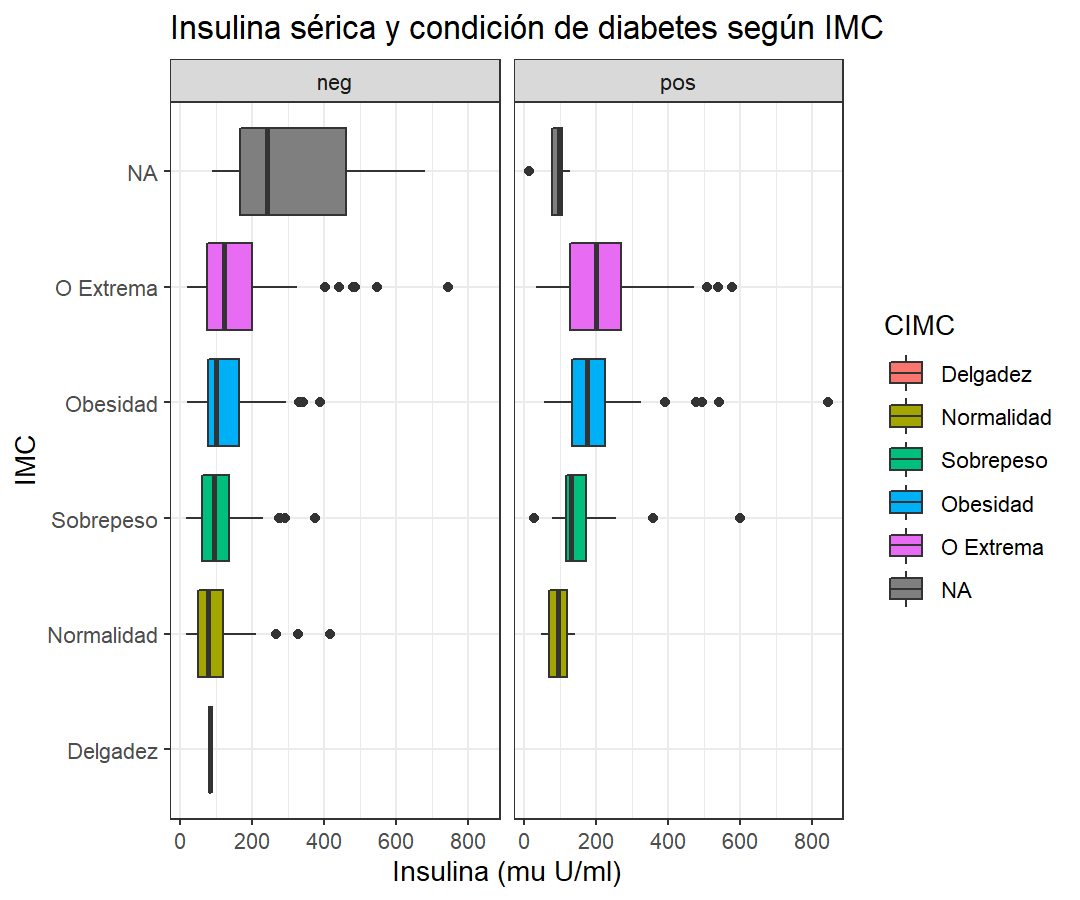
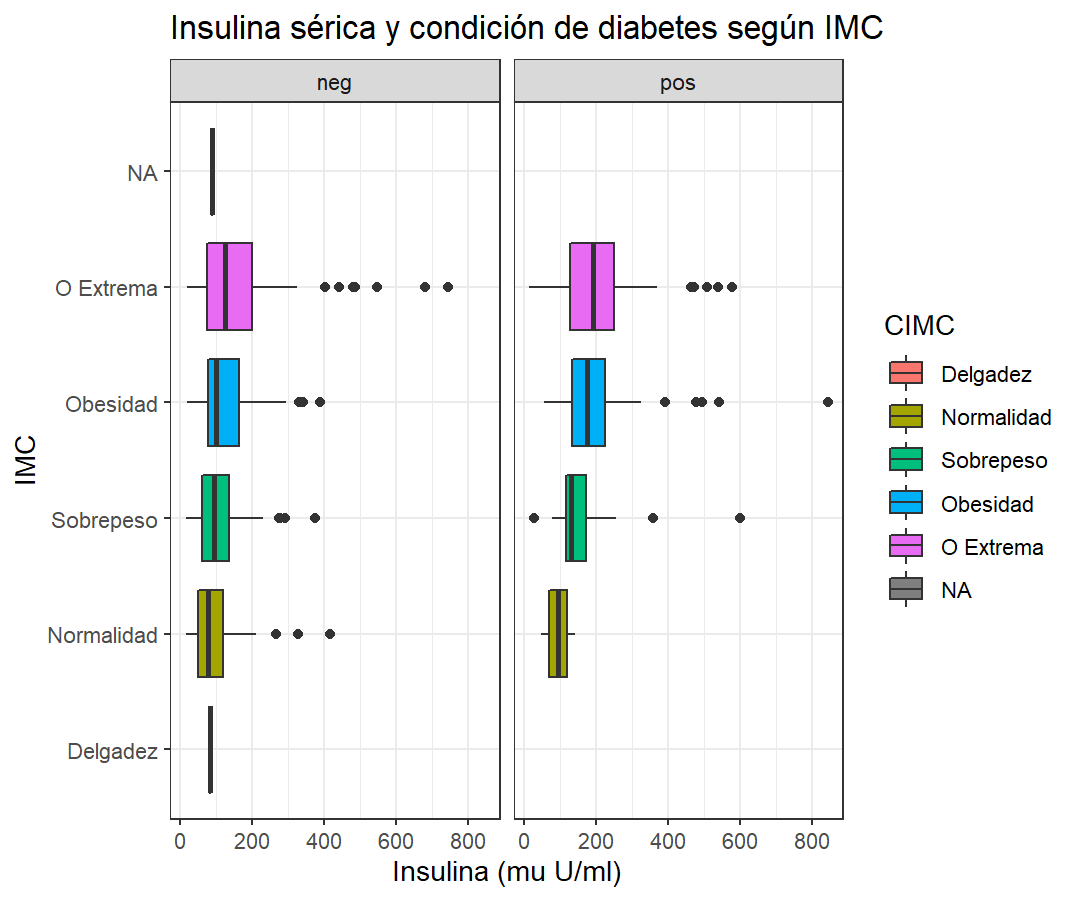
v3.0.42

diff --git a/BioStat1/_site/D_graph.html b/BioStat1/_site/D_graph.html
@@ -1260,7 +1260,7 @@ div.tocify {
 <p><img src="D_graph_files/figure-html/unnamed-chunk-39-2.png" width="540" style="display: block; margin: auto;" /></p>
 <div class="sourceCode" id="cb23"><pre class="sourceCode r"><code class="sourceCode r"><span id="cb23-1"><a href="#cb23-1"></a>datos <span class="op">%&gt;%</span><span class="st"> </span><span class="kw">filter</span>(age<span class="op">&gt;=</span><span class="dv">28</span> <span class="op">&amp;</span><span class="st"> </span>age<span class="op">&lt;=</span><span class="dv">64</span>) <span class="op">%&gt;%</span></span>
 <span id="cb23-2"><a href="#cb23-2"></a><span class="st">    </span><span class="kw">mutate</span>(<span class="dt">presion=</span><span class="kw">ifelse</span>(pressure<span class="op">&gt;</span><span class="dv">80</span>,<span class="st">&quot;Normal&quot;</span>,<span class="st">&quot;Alta&quot;</span>)) <span class="op">%&gt;%</span></span>
-<span id="cb23-3"><a href="#cb23-3"></a><span class="st">    </span><span class="kw">mutate</span>(<span class="dt">CIMC=</span><span class="kw">cut</span>(mass,<span class="dt">breaks =</span> <span class="kw">c</span>(<span class="dv">15</span>,<span class="fl">18.5</span>,<span class="dv">25</span>,<span class="dv">30</span>,<span class="dv">35</span>,<span class="dv">50</span>),</span>
+<span id="cb23-3"><a href="#cb23-3"></a><span class="st">    </span><span class="kw">mutate</span>(<span class="dt">CIMC=</span><span class="kw">cut</span>(mass,<span class="dt">breaks =</span> <span class="kw">c</span>(<span class="dv">10</span>,<span class="fl">18.5</span>,<span class="dv">25</span>,<span class="dv">30</span>,<span class="dv">35</span>,<span class="ot">Inf</span>),</span>
 <span id="cb23-4"><a href="#cb23-4"></a>                    <span class="dt">labels =</span> <span class="kw">c</span>(<span class="st">&quot;Delgadez&quot;</span>,<span class="st">&quot;Normalidad&quot;</span>,</span>
 <span id="cb23-5"><a href="#cb23-5"></a>                               <span class="st">&quot;Sobrepeso&quot;</span>,<span class="st">&quot;Obesidad&quot;</span>,<span class="st">&quot;O Extrema&quot;</span>))) <span class="op">%&gt;%</span></span>
 <span id="cb23-6"><a href="#cb23-6"></a><span class="st">    </span>na.omit <span class="op">%&gt;%</span></span>
@@ -1288,7 +1288,7 @@ div.tocify {
 <span id="cb26-4"><a href="#cb26-4"></a><span class="st">  </span><span class="kw">ylab</span>(<span class="st">&quot;IMC (kg/m^2)&quot;</span>)<span class="op">+</span><span class="kw">xlab</span>(<span class="st">&quot;Diabetes&quot;</span>)</span></code></pre></div>
 <p><img src="D_graph_files/figure-html/unnamed-chunk-40-3.png" width="540" style="display: block; margin: auto;" /></p>
 <div class="sourceCode" id="cb27"><pre class="sourceCode r"><code class="sourceCode r"><span id="cb27-1"><a href="#cb27-1"></a>datos <span class="op">%&gt;%</span></span>
-<span id="cb27-2"><a href="#cb27-2"></a><span class="st">    </span><span class="kw">mutate</span>(<span class="dt">CIMC=</span><span class="kw">cut</span>(mass,<span class="dt">breaks =</span> <span class="kw">c</span>(<span class="dv">15</span>,<span class="fl">18.5</span>,<span class="dv">25</span>,<span class="dv">30</span>,<span class="dv">35</span>,<span class="dv">50</span>),</span>
+<span id="cb27-2"><a href="#cb27-2"></a><span class="st">    </span><span class="kw">mutate</span>(<span class="dt">CIMC=</span><span class="kw">cut</span>(mass,<span class="dt">breaks =</span> <span class="kw">c</span>(<span class="dv">10</span>,<span class="fl">18.5</span>,<span class="dv">25</span>,<span class="dv">30</span>,<span class="dv">35</span>,<span class="ot">Inf</span>),</span>
 <span id="cb27-3"><a href="#cb27-3"></a>                <span class="dt">labels =</span> <span class="kw">c</span>(<span class="st">&quot;Delgadez&quot;</span>,<span class="st">&quot;Normalidad&quot;</span>,</span>
 <span id="cb27-4"><a href="#cb27-4"></a>                           <span class="st">&quot;Sobrepeso&quot;</span>,<span class="st">&quot;Obesidad&quot;</span>,<span class="st">&quot;O Extrema&quot;</span>))) <span class="op">%&gt;%</span></span>
 <span id="cb27-5"><a href="#cb27-5"></a><span class="st">    </span><span class="kw">ggplot</span>(<span class="kw">aes</span>(<span class="dt">y=</span>insulin,<span class="dt">x=</span>CIMC,<span class="dt">fill=</span>CIMC))<span class="op">+</span></span>
@@ -1298,7 +1298,7 @@ div.tocify {
 <span id="cb27-9"><a href="#cb27-9"></a><span class="st">    </span><span class="kw">facet_wrap</span>(<span class="op">~</span>diabetes)<span class="op">+</span><span class="kw">theme_bw</span>()</span></code></pre></div>
 <p><img src="D_graph_files/figure-html/unnamed-chunk-40-4.png" width="540" style="display: block; margin: auto;" /></p>
 <div class="sourceCode" id="cb28"><pre class="sourceCode r"><code class="sourceCode r"><span id="cb28-1"><a href="#cb28-1"></a>datos <span class="op">%&gt;%</span></span>
-<span id="cb28-2"><a href="#cb28-2"></a><span class="st">    </span><span class="kw">mutate</span>(<span class="dt">CIMC=</span><span class="kw">cut</span>(mass,<span class="dt">breaks =</span> <span class="kw">c</span>(<span class="dv">15</span>,<span class="fl">18.5</span>,<span class="dv">25</span>,<span class="dv">30</span>,<span class="dv">35</span>,<span class="dv">50</span>),</span>
+<span id="cb28-2"><a href="#cb28-2"></a><span class="st">    </span><span class="kw">mutate</span>(<span class="dt">CIMC=</span><span class="kw">cut</span>(mass,<span class="dt">breaks =</span> <span class="kw">c</span>(<span class="dv">10</span>,<span class="fl">18.5</span>,<span class="dv">25</span>,<span class="dv">30</span>,<span class="dv">35</span>,<span class="ot">Inf</span>),</span>
 <span id="cb28-3"><a href="#cb28-3"></a>                <span class="dt">labels =</span> <span class="kw">c</span>(<span class="st">&quot;Delgadez&quot;</span>,<span class="st">&quot;Normalidad&quot;</span>,</span>
 <span id="cb28-4"><a href="#cb28-4"></a>                           <span class="st">&quot;Sobrepeso&quot;</span>,<span class="st">&quot;Obesidad&quot;</span>,<span class="st">&quot;O Extrema&quot;</span>))) <span class="op">%&gt;%</span></span>
 <span id="cb28-5"><a href="#cb28-5"></a><span class="st">    </span>na.omit <span class="op">%&gt;%</span></span>
